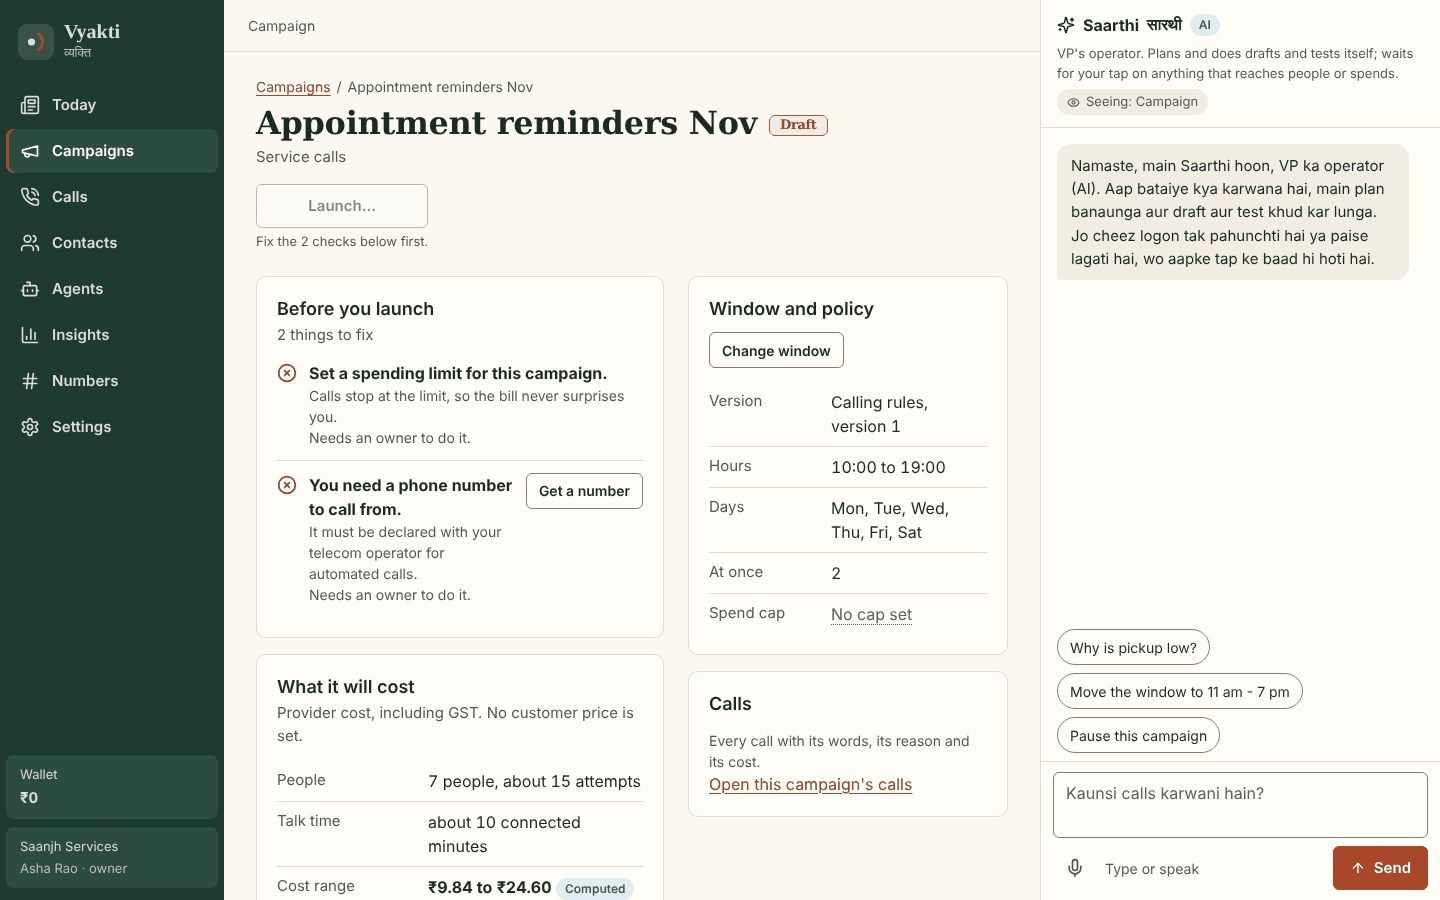
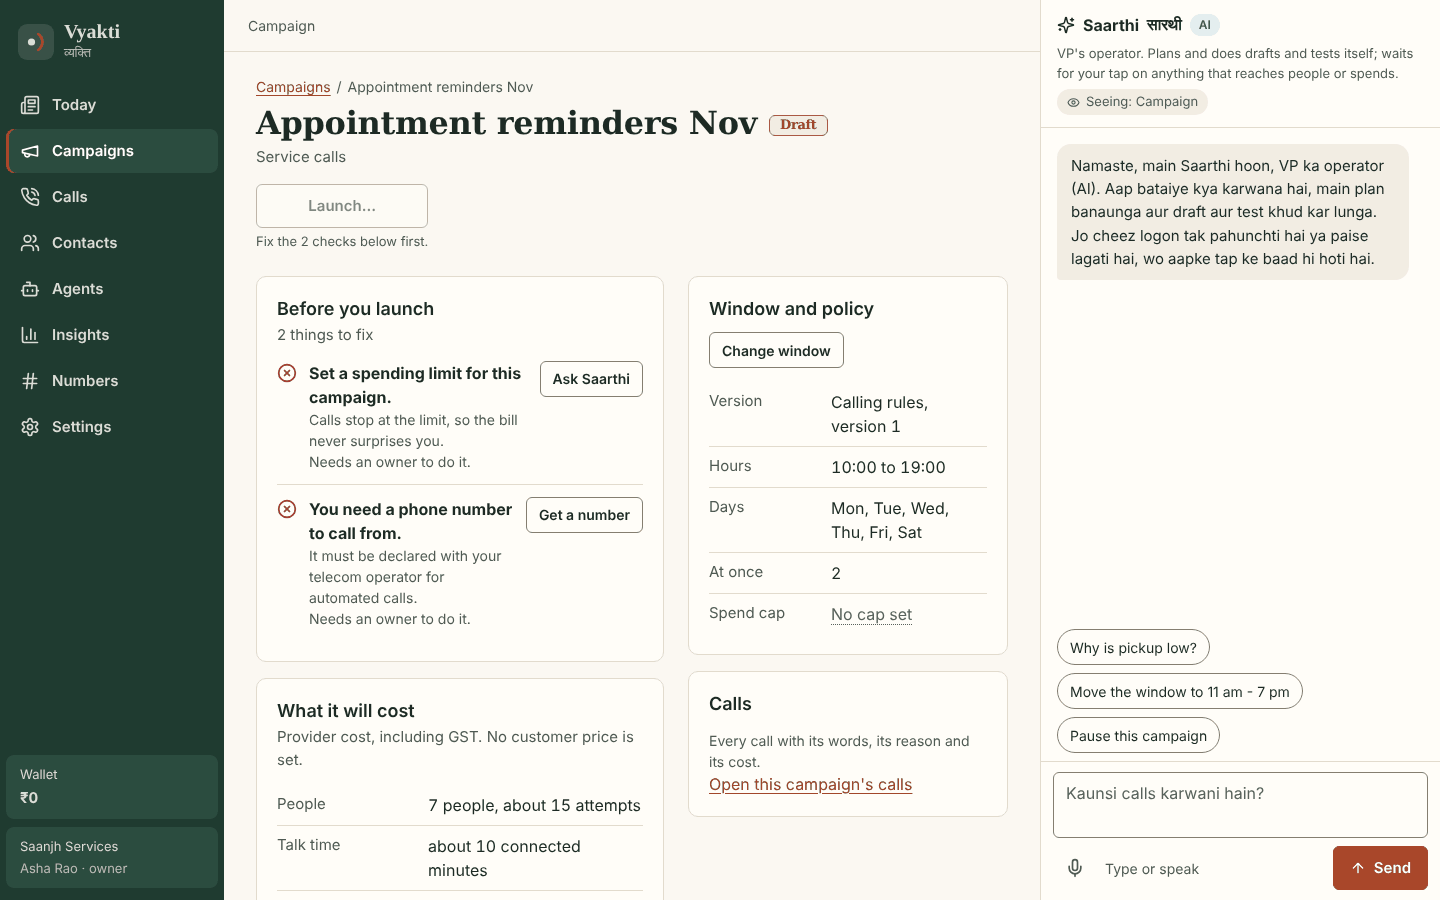
web: Ask Saarthi on launch blockers that have no page of their own
Claude-Session: https://claude.ai/code/session_014EmCLozX1VcXabqUjBazhN

Changed region(s): [[0.1875, 0.7467, 0.4375, 1.0], [0.1875, 0.4044, 0.4375, 0.7156]]

diff --git a/product/web/src/pages/campaigns.tsx b/product/web/src/pages/campaigns.tsx
@@ -92,7 +92,7 @@ function Create() {
 
 // ---------- detail ----------
 function Detail({ id }: { id: string }) {
-  const { act, refresh } = useApp();
+  const { act, refresh, say } = useApp();
   const q = useData<CampaignDoc>(['campaign', id], () => campaignGet(id));
   const est = useData(['estimate', id, q.data?.policyVersion], q.data ? () => campaignEstimate(id) : null);
   const fun = useData(['funnel', id, q.data?.audienceId], q.data ? () => campaignFunnel(id, q.data!.audienceId) : null);
@@ -116,7 +116,7 @@ function Detail({ id }: { id: string }) {
           <div className="stack">
             {c.state === 'draft' && <Card><CardHead title="Before you launch" sub={c.blockers.length ? `${pl(c.blockers.length, 'thing')} to fix` : 'Nothing is blocking launch'} />
               {c.blockers.length === 0 ? <ul className="checklist"><li className="check check-ok"><CheckCircle2 size={20} aria-hidden /><div className="grow"><strong>Every launch check passed</strong><p className="small muted">Window, line, wallet, cap, agent version and audience were all checked by the server just now.</p></div></li></ul> :
-                <ul className="checklist">{c.blockers.map(b => { const x = blockerCopy(b); return <li key={b.code} className="check check-fail"><XCircle size={20} aria-hidden /><div className="grow"><strong>{x.text}</strong><span className="sr"> (blocks launch)</span>{x.why && <p className="small muted">{x.why}</p>}{(typeof b.fix === 'object' ? b.fix.role : b.role) && <p className="small muted">Needs {(() => { const r = (typeof b.fix === 'object' ? b.fix.role : b.role) as string; return `${/^[aeiou]/.test(r) ? 'an' : 'a'} ${r}`; })()} to do it.</p>}</div>{!x.to && typeof b.fix === 'object' && b.fix.tool === 'campaign.window.narrow' && <Btn size="sm" onClick={() => setEdit(true)}>{b.fix.label}</Btn>}{x.to && <Link to={x.to.href} className="btn btn-sm" style={{ textDecoration: 'none' }}><span>{x.to.label}</span></Link>}</li>; })}</ul>}</Card>}
+                <ul className="checklist">{c.blockers.map(b => { const x = blockerCopy(b); return <li key={b.code} className="check check-fail"><XCircle size={20} aria-hidden /><div className="grow"><strong>{x.text}</strong><span className="sr"> (blocks launch)</span>{x.why && <p className="small muted">{x.why}</p>}{(typeof b.fix === 'object' ? b.fix.role : b.role) && <p className="small muted">Needs {(() => { const r = (typeof b.fix === 'object' ? b.fix.role : b.role) as string; return `${/^[aeiou]/.test(r) ? 'an' : 'a'} ${r}`; })()} to do it.</p>}</div>{!x.to && typeof b.fix === 'object' && b.fix.tool !== 'campaign.window.narrow' && SAARTHI_FIX.has(b.fix.tool) && <Btn size="sm" onClick={() => say(`${(b.fix as { label: string }).label} for the campaign "${c.name}".`)}>Ask Saarthi</Btn>}{!x.to && typeof b.fix === 'object' && b.fix.tool === 'campaign.window.narrow' && <Btn size="sm" onClick={() => setEdit(true)}>{b.fix.label}</Btn>}{x.to && <Link to={x.to.href} className="btn btn-sm" style={{ textDecoration: 'none' }}><span>{x.to.label}</span></Link>}</li>; })}</ul>}</Card>}
             <Card><CardHead title="What it will cost" sub="Provider cost, including GST. No customer price is set." />
               <Async q={est} what="The estimate" tool="campaign.estimate" rows={3}>{e => <dl className="kv">
                 <div><dt>People</dt><dd className="tnum">{count(e.people)} people, about {count(e.attempts)} attempts</dd></div>
@@ -160,3 +160,6 @@ function WindowEdit({ c, onClose, onDone }: { c: CampaignDoc; onClose: () => voi
     </div></div>
   );
 }
+
+// Fixes with no page of their own: one tap hands the sentence to Saarthi, who plans the change and asks for approval.
+const SAARTHI_FIX = new Set(['campaign.draft', 'campaign.audience.add']);
